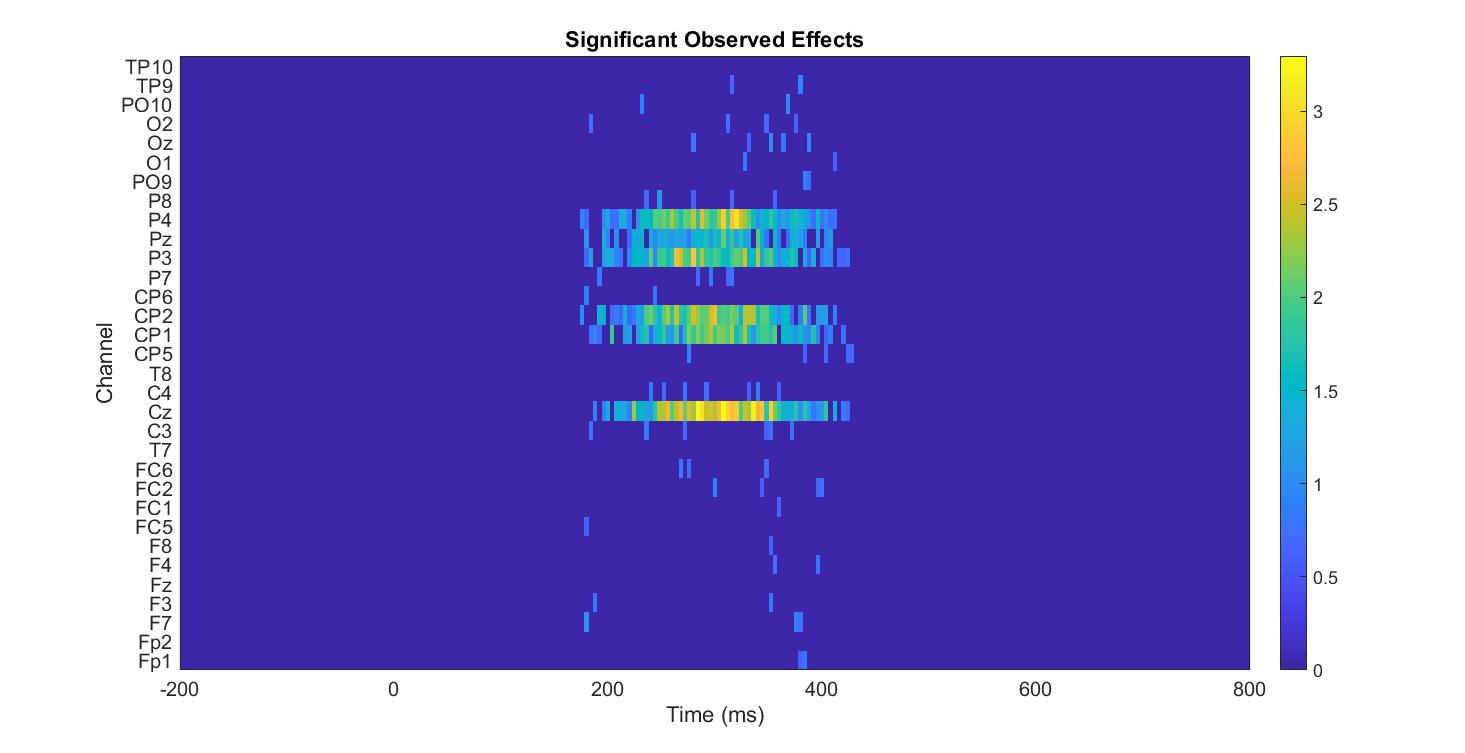
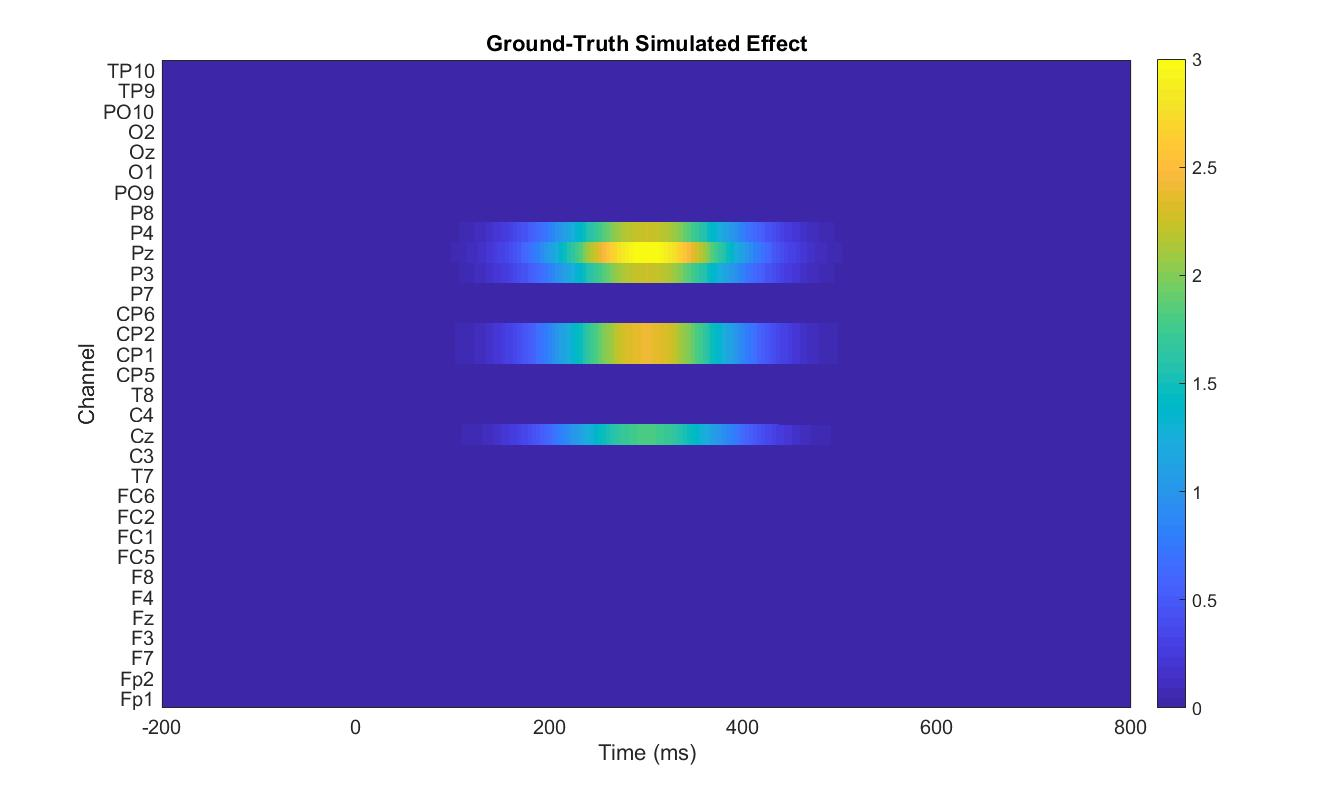
polish between-subject simple

diff --git a/File2_TFCE_betweenSubject_simple.m b/File2_TFCE_betweenSubject_simple.m
@@ -54,7 +54,7 @@ ChN = ept_ChN2(e_loc); E_H = [0.66, 2];
 TFCE_Obs = ept_mex_TFCE2D(t_Obs, ChN, E_H);
 
 % Step-3
-nperms=1;
+nperms=999;
 num_rows = size(group,1);
 TFCE_permMax = nan(nperms,1);
 ChN = ept_ChN2(e_loc); E_H = [0.66, 2];
